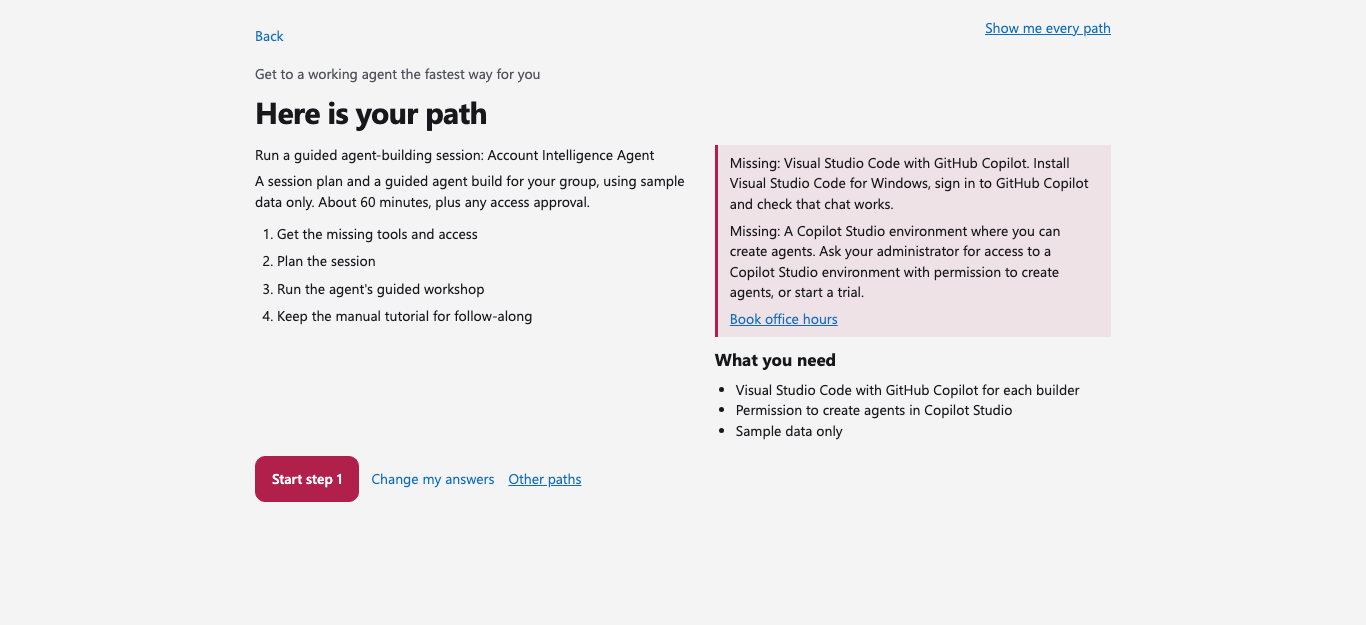
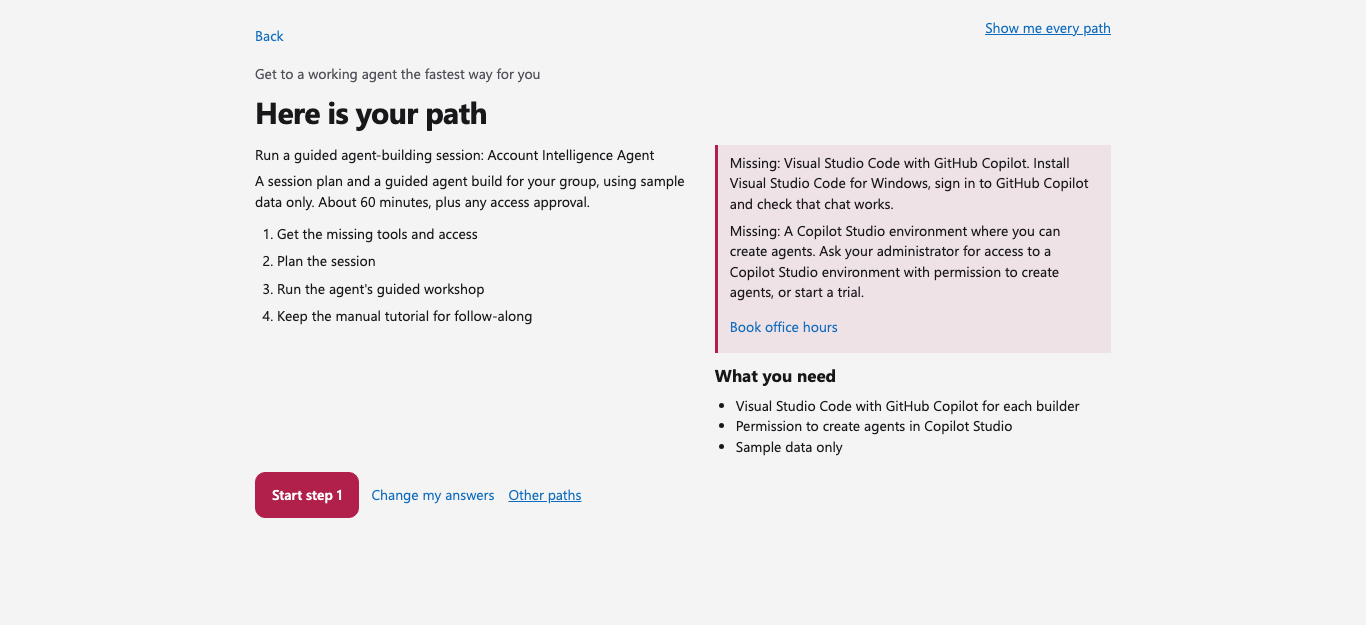
Keep cookie consent clear of path actions
Copilot-Session: 9740346c-554d-4557-a759-e03974b47365

Changed region(s): [[0.5227, 0.4864, 0.7994, 0.7296], [0.1845, 0.7296, 0.4305, 0.8512]]

diff --git a/paths.html b/paths.html
@@ -163,6 +163,7 @@ html[data-theme="dark"] {
 <style>
 * { box-sizing: border-box; }
 body { margin: 0; background: var(--cp-bg); color: var(--cp-text); font: 16px/1.45 var(--cp-font); }
+#aibast-clarity-consent { position: static !important; }
 main { max-width: 650px; margin: auto; padding: 18px 22px 24px; }
 nav { display: flex; justify-content: space-between; gap: 16px; margin-bottom: 18px; font-size: 14px; }
 #browse { margin-left: auto; }

diff --git a/tools/path_check.py b/tools/path_check.py
@@ -186,7 +186,31 @@ def measure(browser, base, *, measurement_failure, result, selected):
                     page.locator(".coach").wait_for()
                     bounds = page.locator(".coach").bounding_box()
                     assert bounds["y"] + bounds["height"] <= height, (width, height, bounds)
-                observations = {"viewports": 5, "states_per_viewport": len(states)}
+                site = "https://microsoft.github.io/aibast-agents-library/"
+                context.unroute("https://**/*")
+
+                def hosted(route):
+                    if route.request.url.startswith(site):
+                        response = route.fetch(url=base + route.request.url[len(site):])
+                        route.fulfill(response=response)
+                    else:
+                        route.abort()
+
+                context.route("**/*", hosted)
+                for width, height in ((1366, 625), (1366, 583), (1536, 703), (1920, 919), (390, 844)):
+                    page.set_viewport_size({"width": width, "height": height})
+                    page.goto(site + "paths.html?" + preview("build", "none"))
+                    page.locator("#screen a.primary").wait_for()
+                    page.locator("#aibast-clarity-consent").wait_for()
+                    for action in page.locator("#screen button, #screen a").all():
+                        action.scroll_into_view_if_needed()
+                        assert action.evaluate("""e => {
+                            const r = e.getBoundingClientRect();
+                            return r.top >= 0 && r.bottom <= innerHeight &&
+                                e.contains(document.elementFromPoint(r.x+r.width/2, r.y+r.height/2));
+                        }"""), (width, height, action.inner_text())
+                observations = {"viewports": 5, "states_per_viewport": len(states),
+                                "hosted_cookie_clearance": True}
             elif number == 115:
                 load(preview("build", "none"))
                 page.get_by_role("button", name="Book office hours", exact=True).click()
